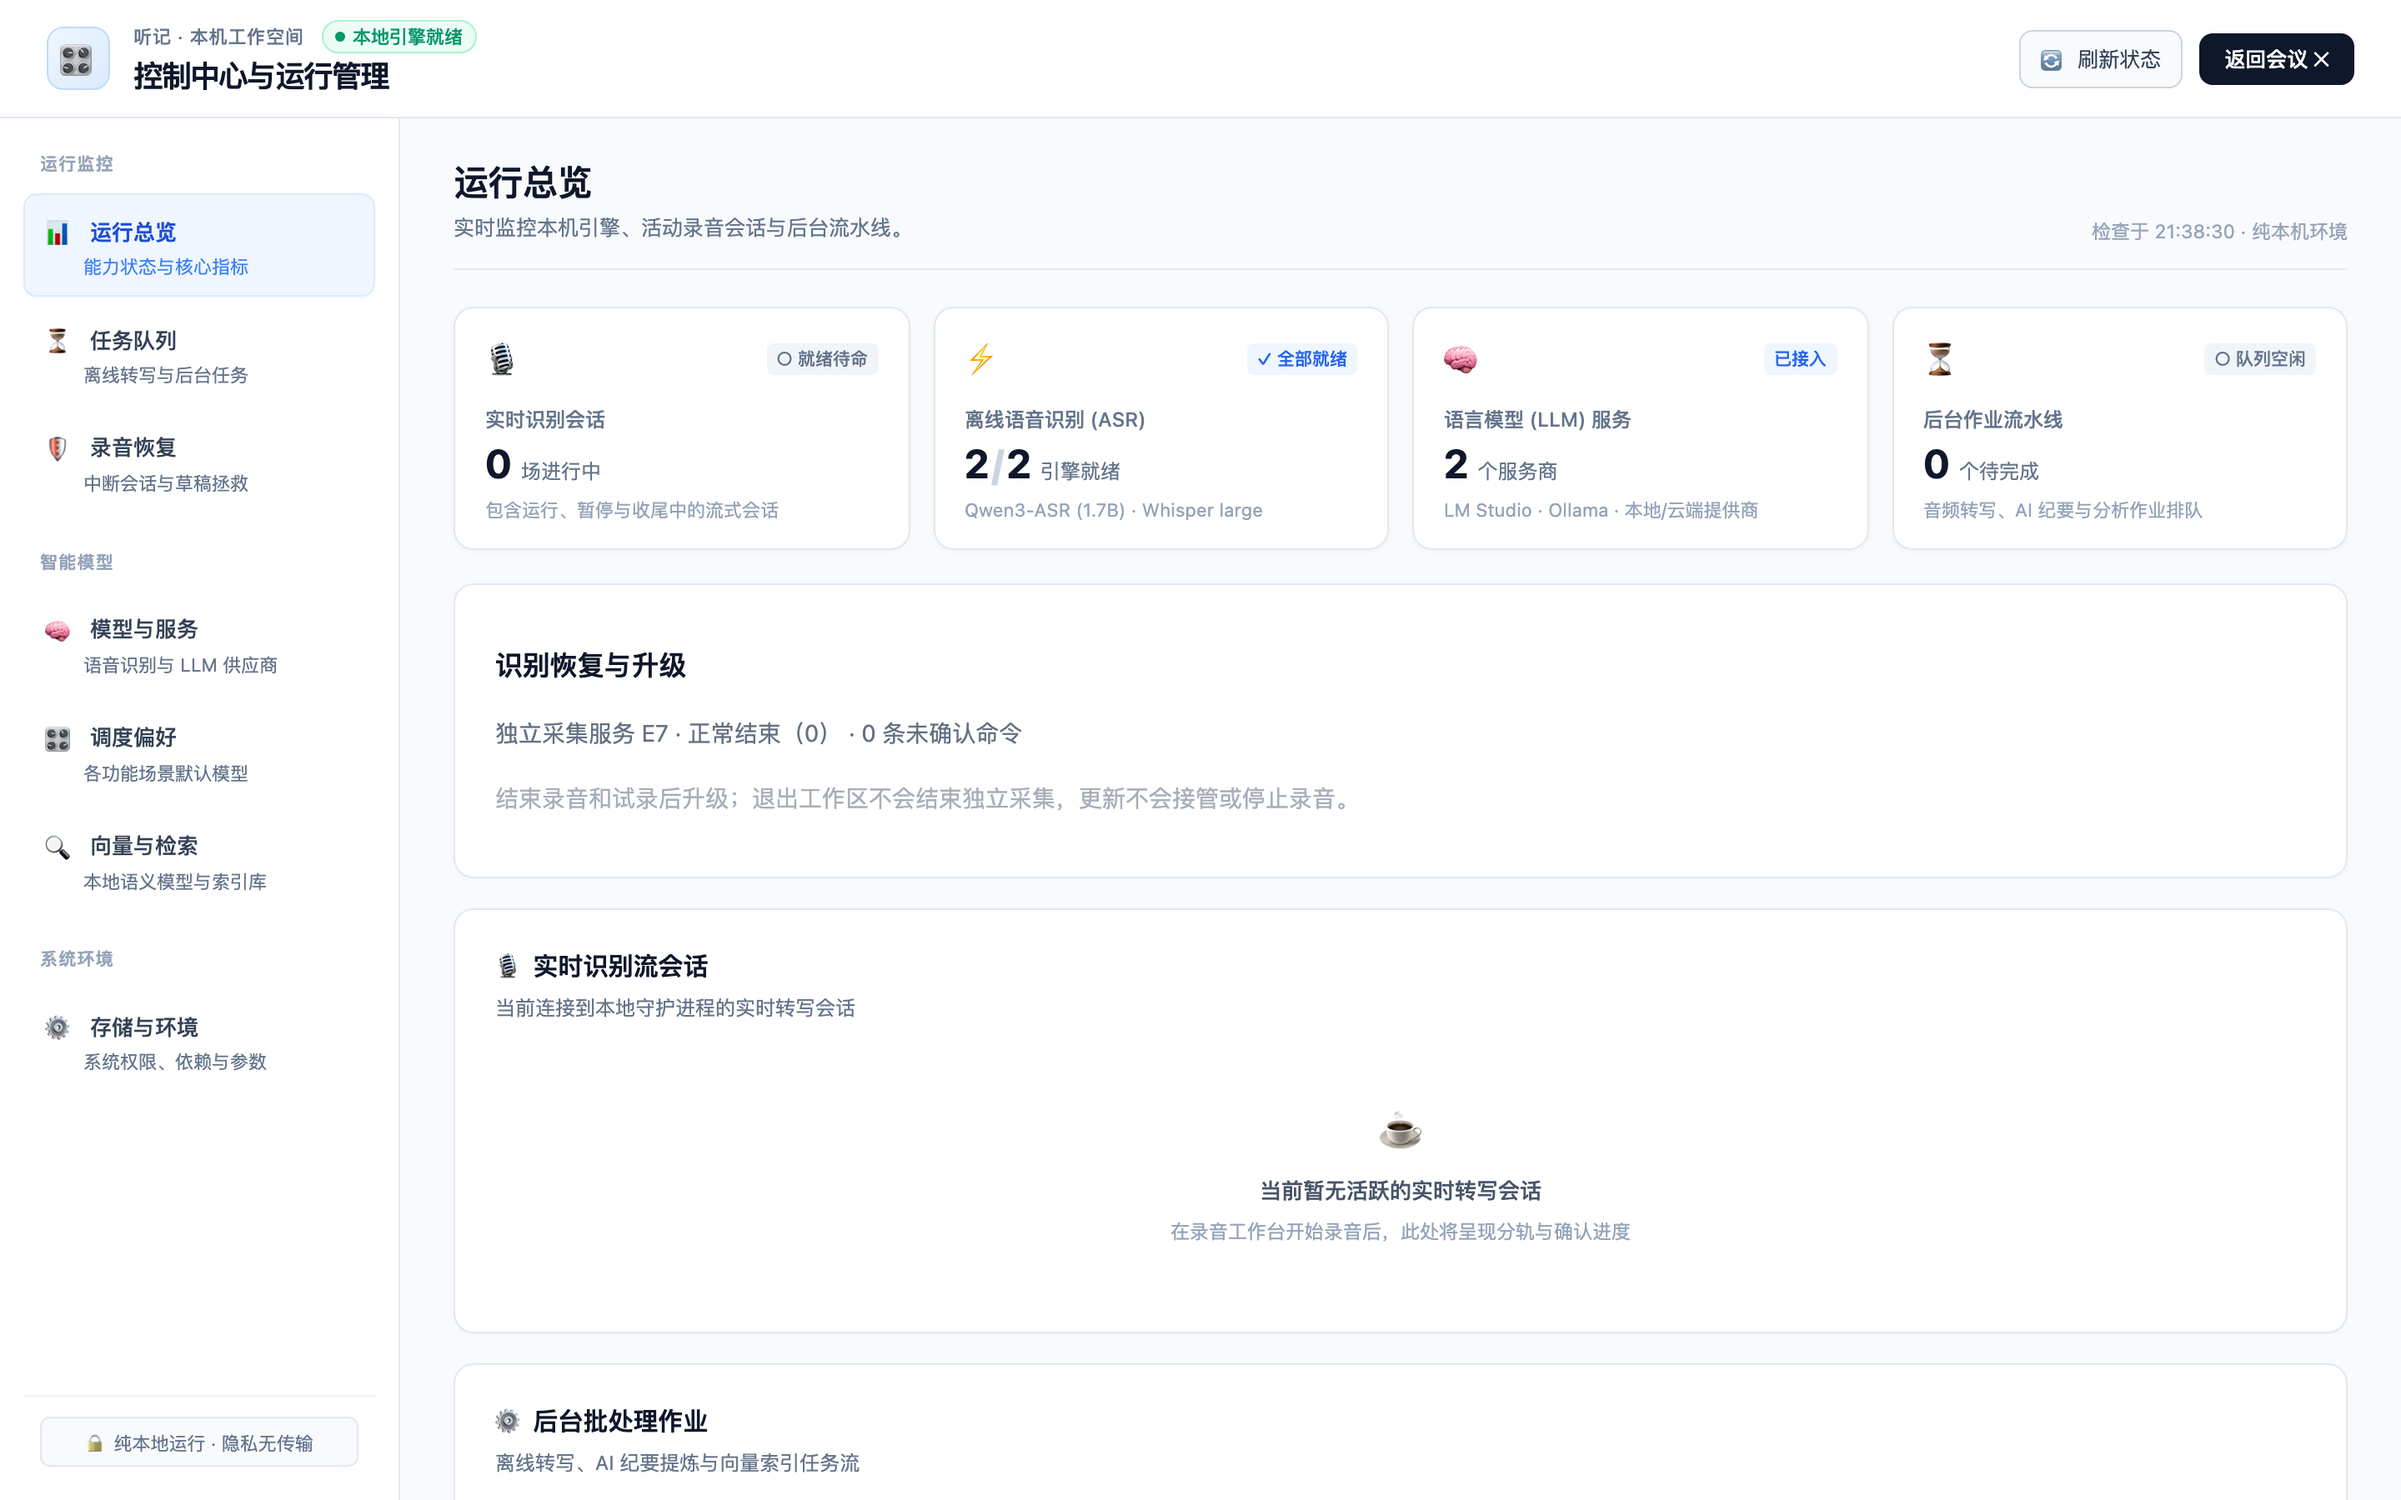
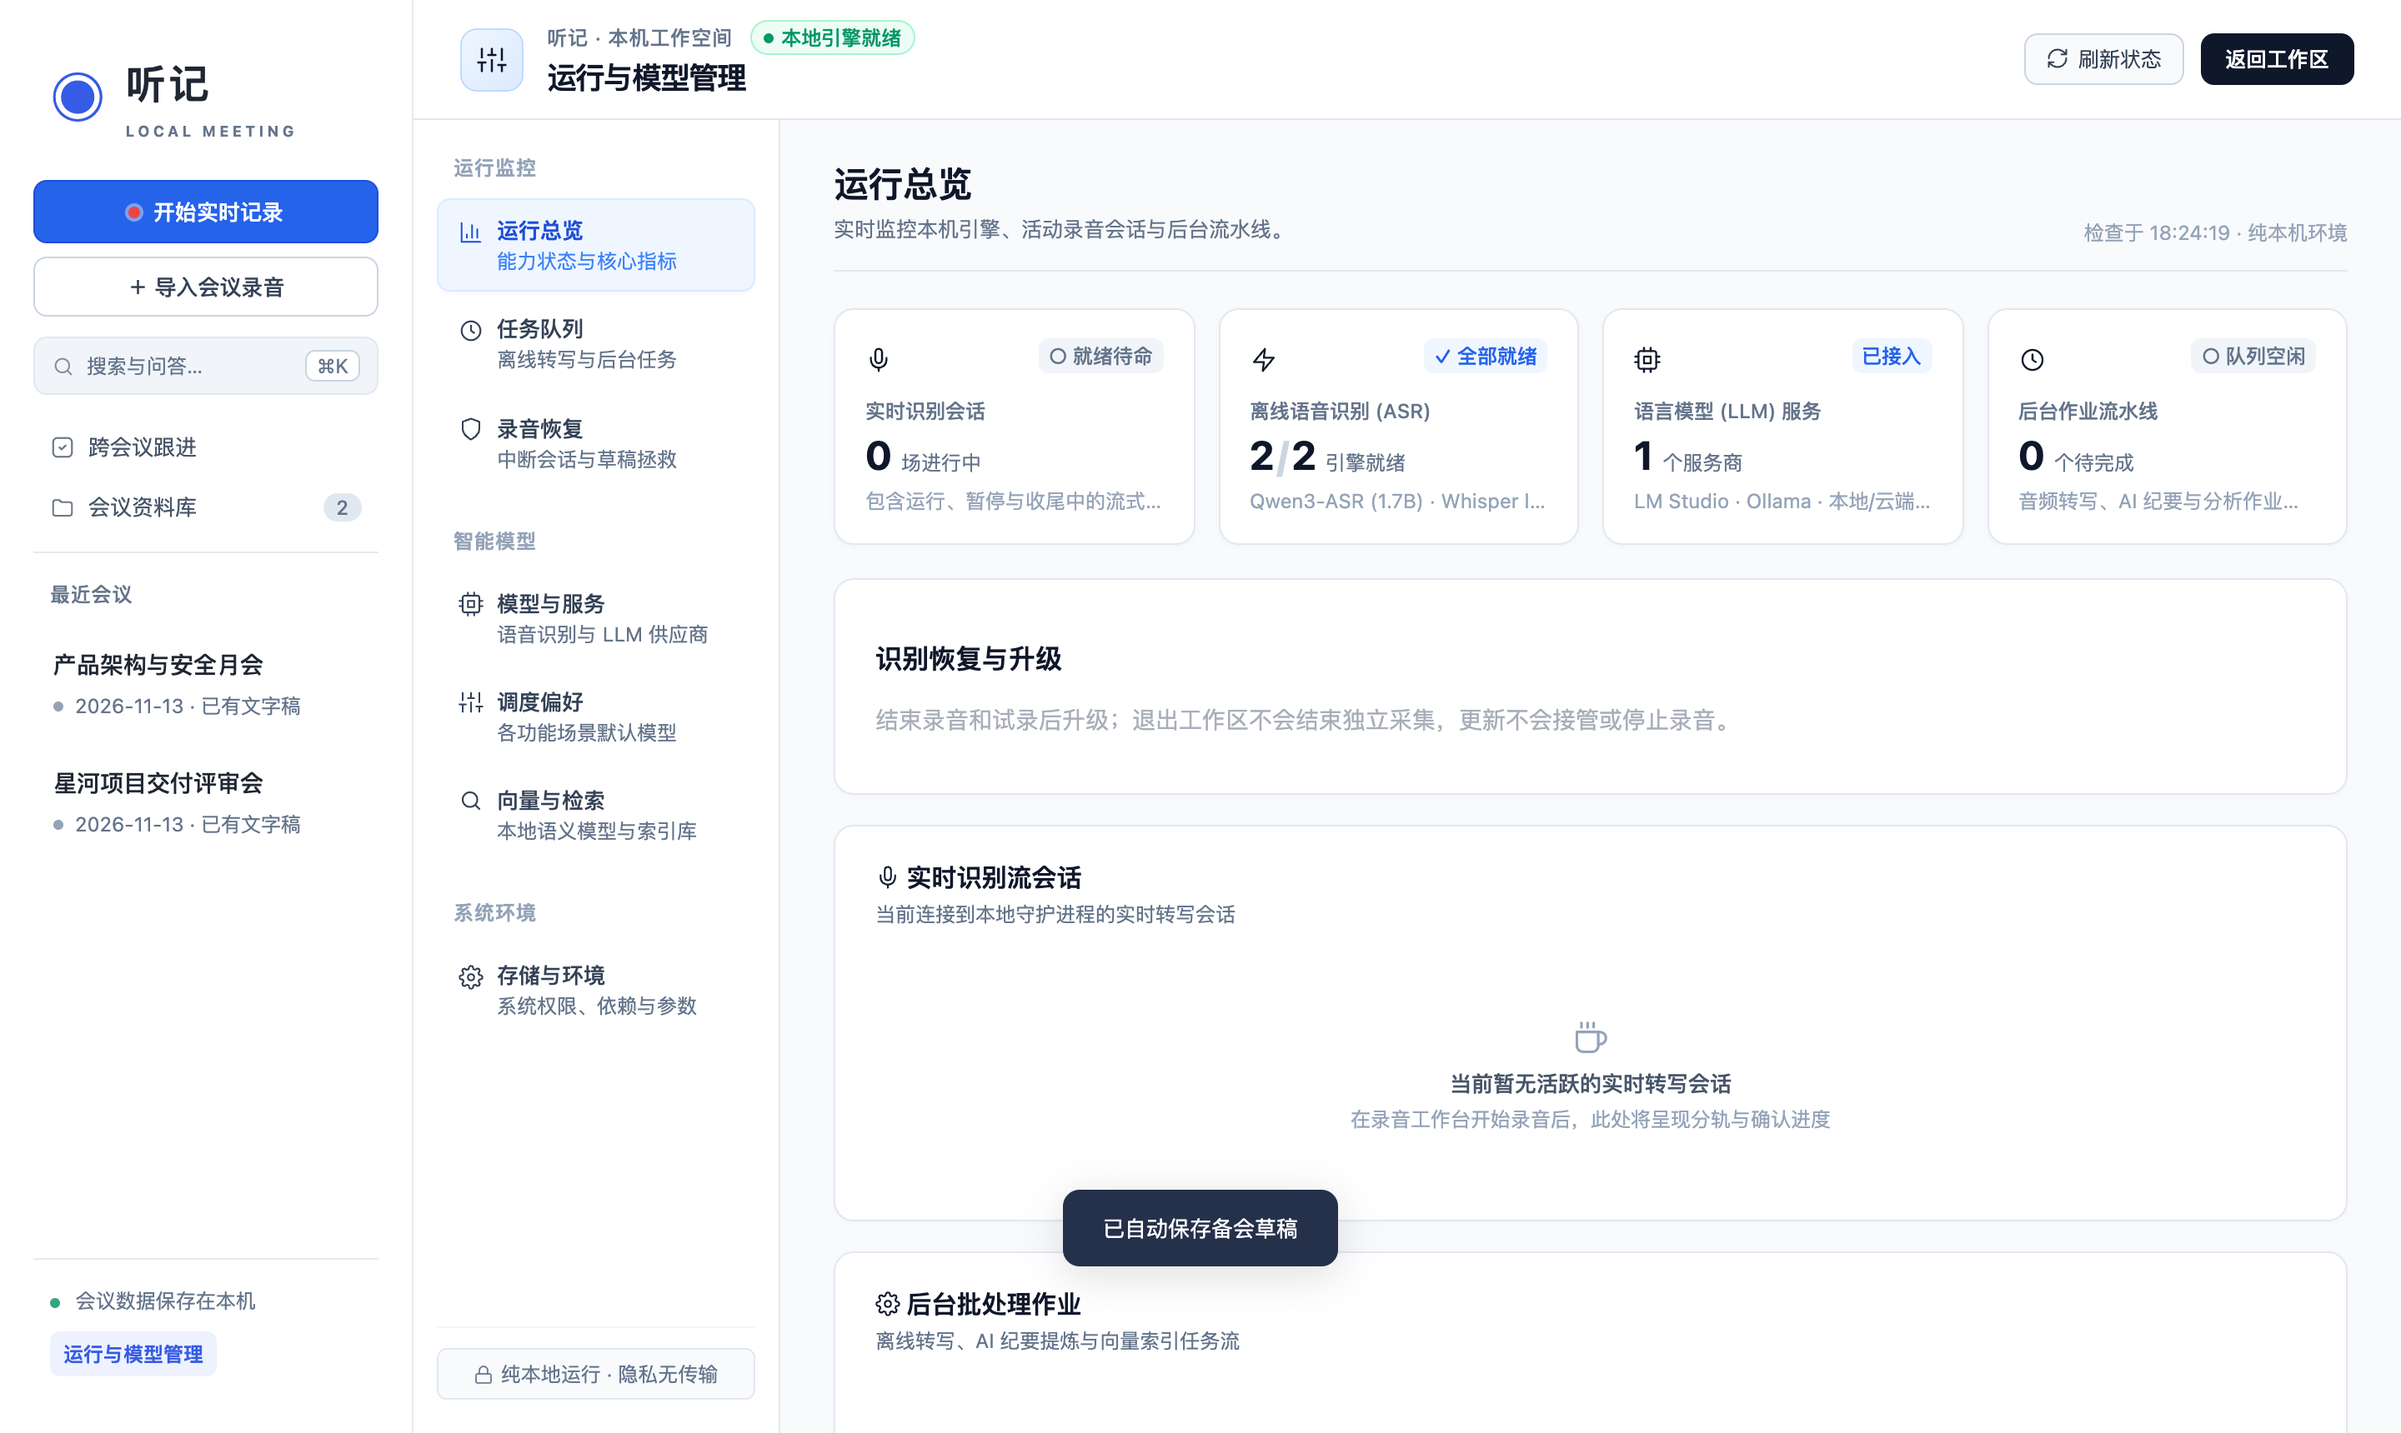
docs: update README and refresh sanitized screenshots

diff --git a/README.md b/README.md
@@ -4,11 +4,21 @@
 
 ---
 
+## 界面一览
+
 ![会前准备与就绪舱](assets/screenshots/01-recording-workbench.png)
-*图 1：会前准备与就绪舱 — 双轨音源即时试音、议程背景预设与交付策略配置*
+*图 1：会前准备与就绪舱 — 采集源试音检测、参会人与议程预设，以及会后整理目标与交付语言配置*
 
 ![智能纪要与交付成果](assets/screenshots/03-meeting-outcomes.png)
-*图 2：智能纪要与交付成果 — 双栏原文逐句回听核对、结构化结论分析与多版本导出*
+*图 2：智能纪要（单栏聚焦模式）— 紧凑双行会议头、行内交接核对入口，以及按议题组织的证据链结论*
+
+| 双栏对照审阅 | 精细校对工作台 |
+| :---: | :---: |
+| ![智能纪要双栏对照](assets/screenshots/02-side-by-side-review.png) | ![精细校对工作台](assets/screenshots/05-transcript-proofing.png) |
+| *图 3：点击「对照原文」展开双栏视图，左侧原文回听与右侧纪要齐平联动* | *图 4：精细校对 — 搜索替换、纯文本/双语对照切换、批量校对工具与版本历史* |
+
+![运行与模型管理控制中心](assets/screenshots/04-runtime-management.png)
+*图 5：运行与模型管理 — 全局侧边栏导航串联运行总览、任务队列、录音恢复、模型与服务及存储环境*
 
 ---
 
@@ -16,26 +26,27 @@
 
 - **双轨原生采集与会前就绪舱**
   - 支持电脑系统声音与麦克风双轨独立采集，内置硬件级与 WebRTC AEC3 回声消除。
-  - 会前提供设备检测、实时声压跳动与试录回放验证，确保音质清晰后再正式起录。
+  - 会前提供采集源检测、声压测试与试录回放验证，并可预设会议主题、参会人、议程提纲与交付目标。
   - 原生提供置顶轻量伴随窗（快捷键 `Ctrl + Option + N`），录音状态一目了然且不遮挡主屏操作。
 
-- **端侧多引擎实时转写**
-  - 支持中英文双语自动识别与分离，本地离线运行，无需外发音频。
+- **端侧多引擎实时与会后转写**
+  - 支持中文、英文及实验性日语本地离线识别与说话人分离，音频无需外发。
   - 提供高速高精度的 **Whisper large-v3-turbo** 与针对口语优化的 **Qwen3-ASR (1.7B-8bit)** 引擎，支持会中实时流式出字与会后整轨精细补转写。
   - 自动运行 Pyannote 说话人分离、3DSpeaker 声纹特征对齐与上下文标点恢复。
 
-- **带真实证据链的智能纪要**
-  - 内置标准商务会议、头脑风暴、技术研讨及结构化**在线面试**纪要模版。
-  - **杜绝模型幻觉**：纪要总结与问答结论均严格锚定原文音轨片段与发言人身份，点击证据秒级定位回听。
-  - 支持多版本纪要对比（Diff View），可自由选用不同版本并一键导出 Word (docx)、PDF 与 Markdown 文档。
+- **三大聚焦会议工作区（单会议视图）**
+  - 会议详情采用紧凑双行抬头与「识别覆盖 / 本次交接与核对」行内弹出清单，核心操作聚焦为三个主视图，并随时通过弹窗编辑**备会背景**：
+    1. **智能纪要**：默认单栏聚焦阅读，支持一键「对照原文」进入双栏齐平回听；内置商务会议、头脑风暴、技术研讨及在线面试等模版，支持独立选择**中文 / English** 输出语言、版本历史对比（Diff View）及 Word (`.docx`) / PDF / Markdown 导出。
+    2. **深度研判**：围绕会议记录进行质询与深度分析，结论严格锚定原文音轨片段与发言人身份，点击证据即可秒级定位回听。
+    3. **精细校对**：集成高密度 Pro 工具栏，支持搜索与全局替换、`纯文本校对 / 双语对照`（含日语实验性会后原文与中文译文）切换、术语热词批量校对及版本回溯。
 
-- **桌面级运行管理控制中心**
-  - 统一查看与切换本地模型包，提供模型文件完整性校验与离线能力探测。
-  - 包含服务状态诊断、存储空间监控、未结任务队列管理与意外中断录音一键自愈。
+- **桌面级「运行与模型管理」控制中心**
+  - 采用桌面侧边栏统一导航，将工作区与运行中心解耦：涵盖**运行总览**、**任务队列**、**录音恢复**、**模型与服务**、**调度偏好**、**向量与检索**及**存储与环境**。
+  - 支持离线模型包导入与完整性校验、离线能力探测、服务状态诊断与意外中断录音自愈。
 
-- **跨会议资料库与检索问答**
-  - 会议按项目、标签与日期归档，轻松跟踪跨场次行动项与责任人。
-  - 支持本地中英文关键词与向量语义检索，提供带引用来源的跨会议 AI 问答。
+- **跨会议资料库与语义检索问答**
+  - 会议按项目、标签与日期归档，持续跟踪跨场次行动项与责任人。
+  - 基于本地向量库实现中英文关键词与语义检索，提供带引用来源与语言锁定的跨会议 AI 问答。
 
 ---
 
@@ -51,7 +62,7 @@
    ```bash
    cat Tingji-Models-v0.1.0.zip.part-* > Tingji-Models-v0.1.0.zip
    ```
-3. 打开 `Tingji.app`，进入「运行管理 → 智能模型 → 模型与服务」，点击导入已合并的模型包 ZIP，即可完成端侧离线就绪。
+3. 打开 `Tingji.app`，进入「运行与模型管理 → 智能模型 → 模型与服务」，点击导入已合并的模型包 ZIP，即可完成端侧离线就绪。
 
 ### 方式二：本机源码运行（开发者）
 
@@ -81,9 +92,21 @@ bash scripts/build_host.sh
 open ~/Library/Caches/cn.seeknow.tingji/Tingji.app
 ```
 
-#### 按需扩展能力
+#### 按需扩展与常用验证命令
 - **Qwen3-ASR 扩展引擎**：`bash scripts/setup_qwen.sh`
 - **原生双轨采集器构建**：`bash scripts/build_capture.sh`
+- **前端依赖安装、检查与构建**：
+  ```bash
+  npm --prefix frontend ci
+  npm --prefix frontend run typecheck
+  npm --prefix frontend run test:stream
+  npm --prefix frontend run build
+  ```
+- **后端与宿主回归测试**：
+  ```bash
+  pytest
+  bash scripts/test_host.sh
+  ```
 
 ---
 
@@ -92,23 +115,25 @@ open ~/Library/Caches/cn.seeknow.tingji/Tingji.app
 1. **音频与转写纯本地运行**：语音转写、说话人聚类、标点预测与声纹嵌入全部在 Mac 本机端侧芯片运行，无任何音频上传。
 2. **AI 纪要与分析模型可选**：
    - 默认支持连接本地大模型（如 [LM Studio](https://lmstudio.ai/) 或 [Ollama](https://ollama.ai/)），实现 100% 离线脱网运行。
-   - 亦可按需在「运行管理」配置商业 OpenAI 兼容 API 密钥。使用云端模型时需经用户明确确认，仅提交文字稿与提纲。
+   - 亦可按需在「运行与模型管理 → 智能模型 → 模型与服务」配置商业 OpenAI 兼容 HTTPS API。使用云端模型前需经用户明确确认，且仅提交文字稿与提纲。
 3. **数据自主可控**：会议数据库及所有音频原件保存在 `data/` 目录，支持离线备份与无损物理迁移。
 
 ---
 
 ## 技术架构
 
-- **前端**：React 19 + TypeScript + Vite + TanStack Query + Virtual Scrolling
-- **后端**：Python + FastAPI + SQLite (WAL 模式) + Uvicorn
-- **模型推理**：`whisper.cpp` (Metal 加速) + `MLX` (Apple Silicon 深度学习框架) + `sherpa-onnx`
-- **桌面原生**：Swift 5 + AppKit + WebKit + ScreenCaptureKit (原生系统音频捕获)
+- **前端应用与设计系统**：React 19 + TypeScript + Vite 7 + TanStack Query + TanStack Virtual；基于 `tokens.css` 语义设计令牌与 `shellState` 全局导航状态机，构建统一桌面 App Shell（固定侧边栏 + 紧凑会议头 + 三大聚焦工作区）。
+- **后端服务与数据存储**：Python + FastAPI + SQLite（WAL 模式 + `sqlite-vec` 本地向量检索）+ Uvicorn。
+- **端侧模型与推理引擎**：`whisper.cpp`（Metal 加速）+ `MLX`（Qwen3-ASR）+ `Silero VAD` + `sherpa-onnx`（Pyannote / 3DSpeaker）。
+- **macOS 桌面原生宿主**：Swift 5 + AppKit + WebKit + ScreenCaptureKit（原生系统音频捕获、伴随窗与离线运维）。
 
 ---
 
 ## 文档索引
 
+- [项目文档总览](docs/README.md)
 - [用户使用指南](docs/USER_GUIDE.md)
+- [UI 与布局架构设计地图](docs/specs/MAP-ui-architecture-redesign.md)
 - [开发与验证指南](docs/engineering/DEVELOPMENT.md)
 - [本机维护与数据迁移](docs/engineering/WORKSPACE.md)
 - [模型包设计规格](docs/specs/SPEC-model-packs.md)
